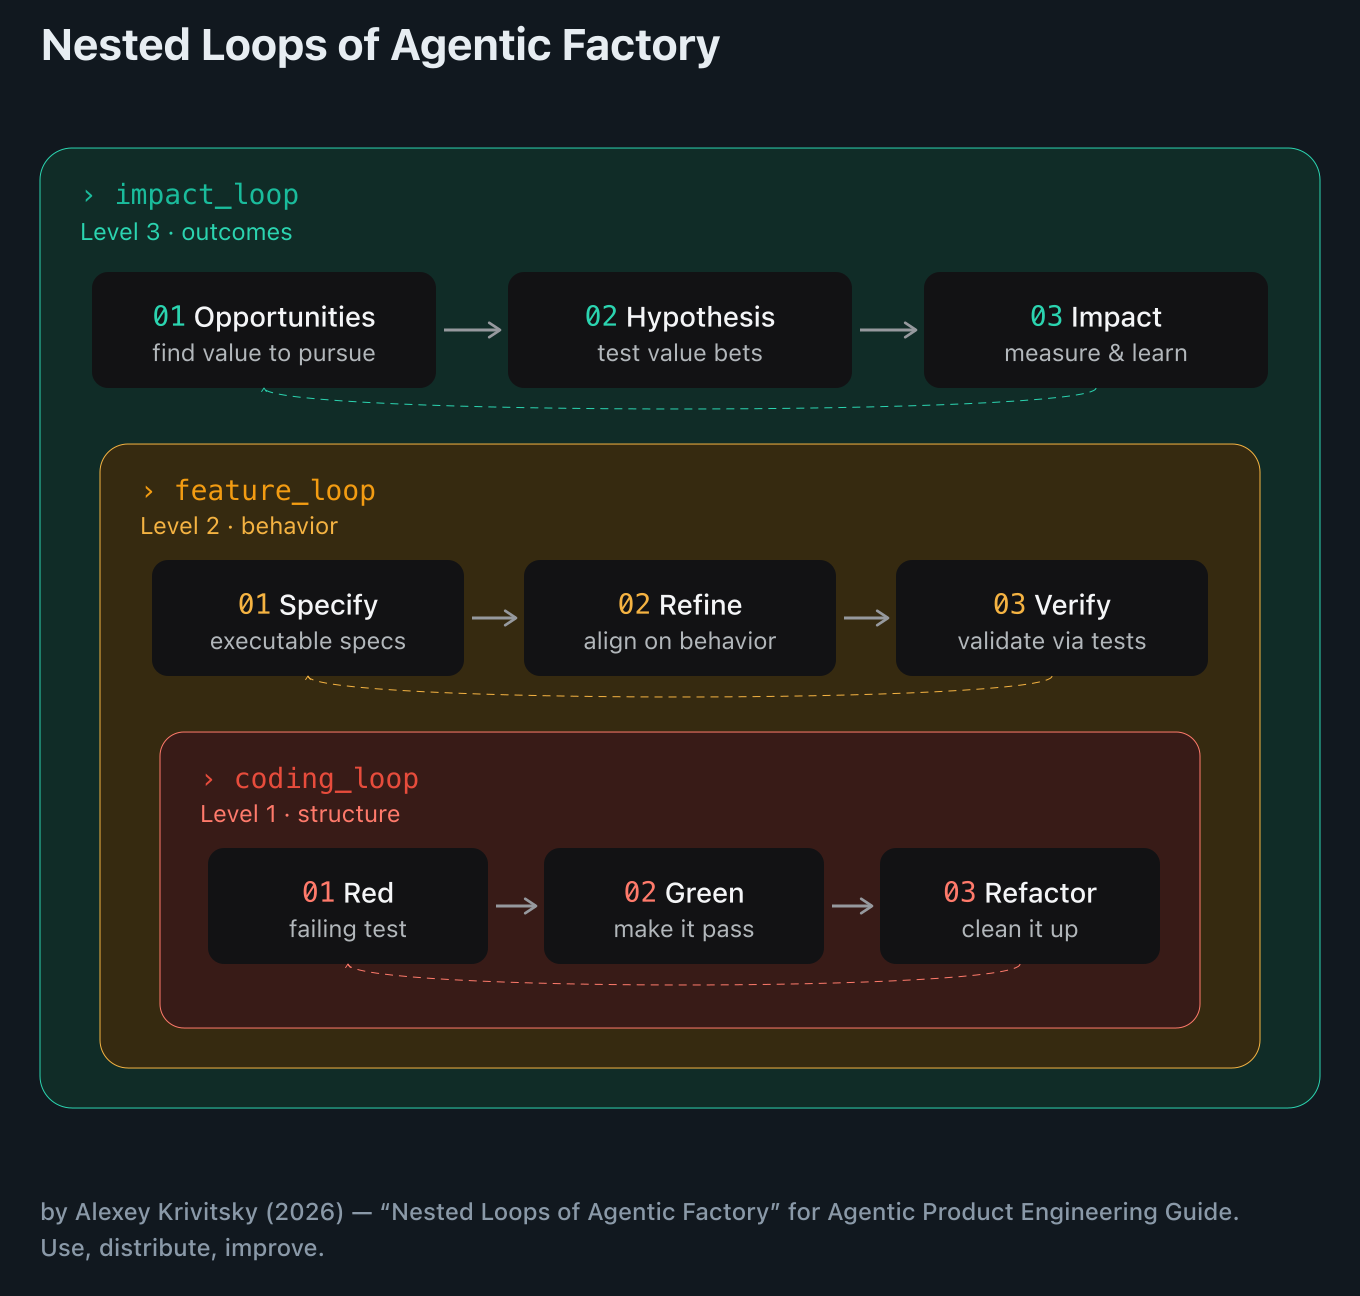
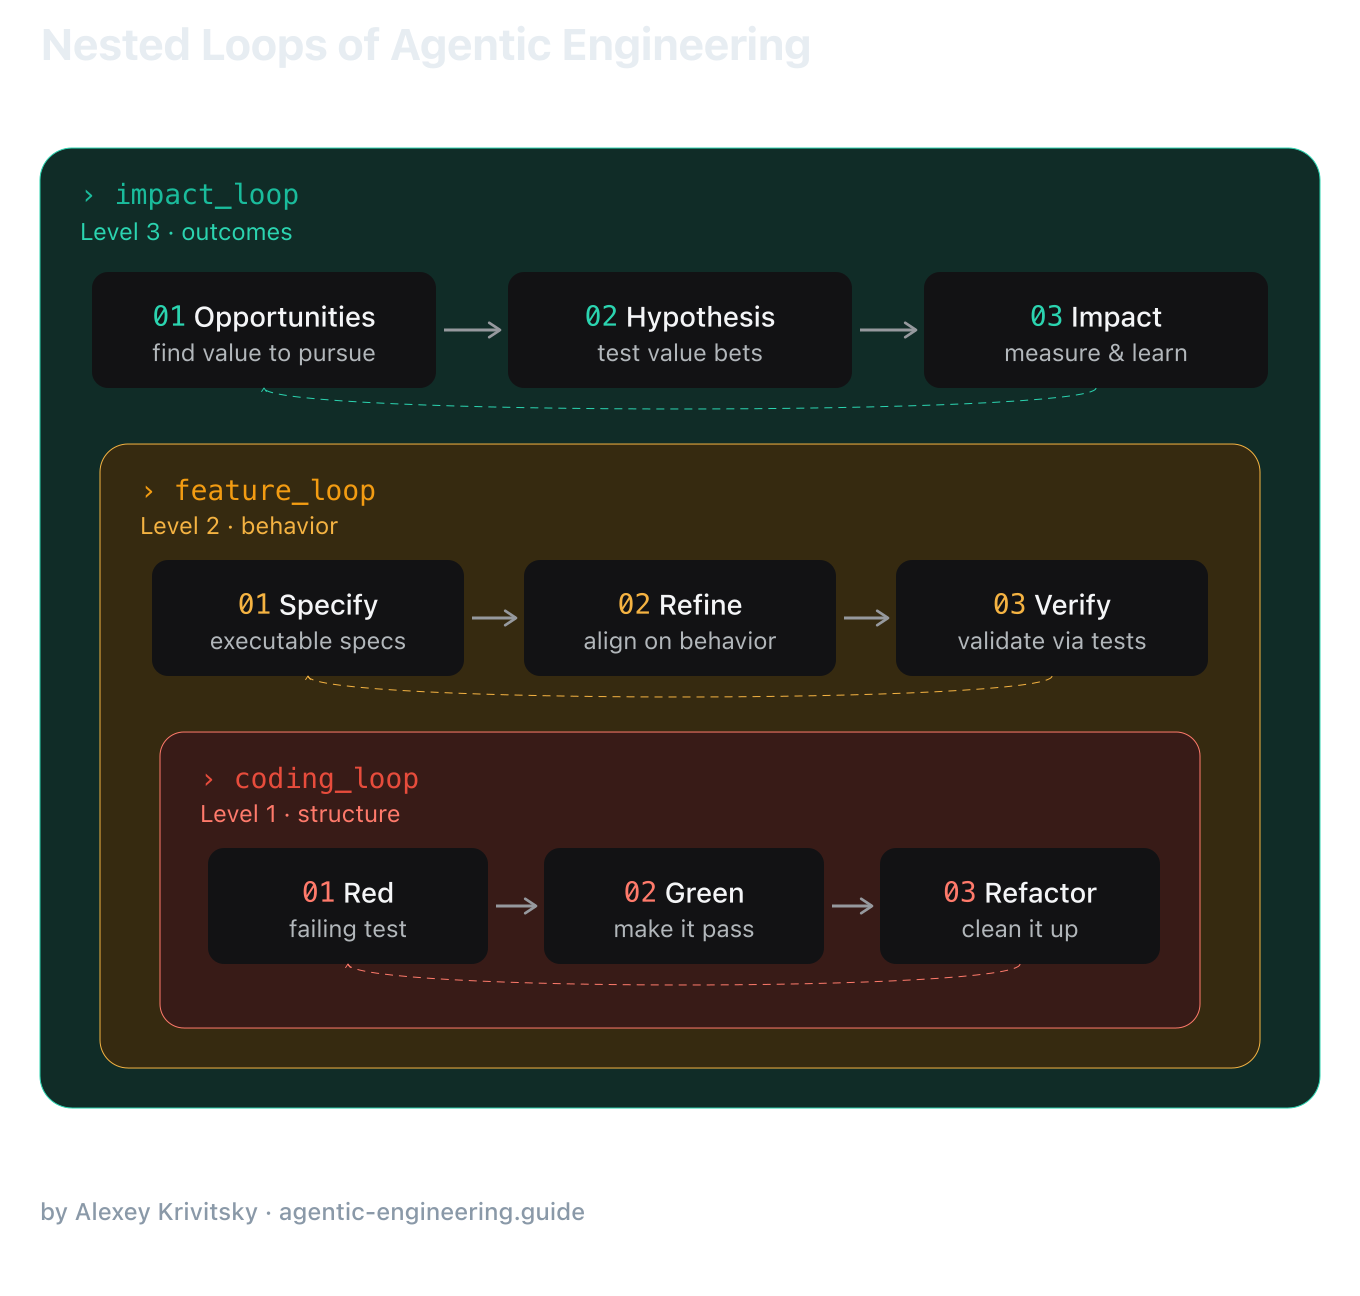
guide: split Big Idea; add "Loops of Agentic Engineering" page
- Big Idea rewritten around the vibe-coding-vs-agentic-system model
  (figure as centerpiece; harness = workflow + guidelines/autotests/guardrails).
- New "Loops of Agentic Engineering" page carries the nested-loops diagram
  and the "each loop is built by specific tiers" text; added to nav + Contents;
  loop-concept deep-links repointed from #big-idea to the new page.
- nested-loops.svg: rename title to "Nested Loops of Agentic Engineering",
  drop the 2026/verbose credit for a one-line "by Alexey Krivitsky ·
  agentic-engineering.guide" footer; regenerate nested-loops.png.
- Credit Denis Turkov (link to his post) in the figure caption too, alongside
  the widget credit and Sources.

Bumps agentic-coach 0.12.0 -> 0.13.0 and re-syncs the bundled guide.

Claude-Session: https://claude.ai/code/session_01E3y69A99S5gXnvzgJFQ3cG

Changed region(s): [[0.0, 0.0, 1.0, 1.0]]

diff --git a/guide.md b/guide.md
@@ -25,15 +25,16 @@ Calibrated for the current frontier class — **Opus 4.8+, GPT-5.5-class+, Gemin
 ### Contents
 1. [Learn this with an agent (the fastest way through)](#learn-this-with-an-agent-the-fastest-way-through)
 2. [Big Idea 💡: From Prompts to Systems](#big-idea--from-prompts-to-systems)
-3. [The eight tiers at a glance](#the-eight-tiers-at-a-glance)
-4. [Climb the eight tiers — to spend effort only where your work needs it](#climb-the-eight-tiers--to-spend-effort-only-where-your-work-needs-it)
+3. [Loops of Agentic Engineering](#loops-of-agentic-engineering)
+4. [The eight tiers at a glance](#the-eight-tiers-at-a-glance)
+5. [Climb the eight tiers — to spend effort only where your work needs it](#climb-the-eight-tiers--to-spend-effort-only-where-your-work-needs-it)
    - [Which tier do I need?](#which-tier-do-i-need)
-5. [Who this is for](#who-this-is-for)
-6. [TL;DR — if you do only five things](#tldr--if-you-do-only-five-things)
-7. [Unlearn the old playbook — so stale advice stops sabotaging you](#unlearn-the-old-playbook--so-stale-advice-stops-sabotaging-you)
-8. [Pick the right tool — so you don't build production on a prototype engine (agent vs one-shot builder)](#pick-the-right-tool--so-you-dont-build-production-on-a-prototype-engine-agent-vs-one-shot-builder)
-9. [Learn the primitives — so the rest of the guide clicks (your building blocks)](#learn-the-primitives--so-the-rest-of-the-guide-clicks-your-building-blocks)
-10. [Tier 1 — Professional Prompting: Write prompts the agent can act on](#tier-1)
+6. [Who this is for](#who-this-is-for)
+7. [TL;DR — if you do only five things](#tldr--if-you-do-only-five-things)
+8. [Unlearn the old playbook — so stale advice stops sabotaging you](#unlearn-the-old-playbook--so-stale-advice-stops-sabotaging-you)
+9. [Pick the right tool — so you don't build production on a prototype engine (agent vs one-shot builder)](#pick-the-right-tool--so-you-dont-build-production-on-a-prototype-engine-agent-vs-one-shot-builder)
+10. [Learn the primitives — so the rest of the guide clicks (your building blocks)](#learn-the-primitives--so-the-rest-of-the-guide-clicks-your-building-blocks)
+11. [Tier 1 — Professional Prompting: Write prompts the agent can act on](#tier-1)
     - [1.1 Hand over the outcome, not a file list](#tip-1-1)
     - [1.2 Be specific](#tip-1-2)
     - [1.3 Say what to do, not what to avoid](#tip-1-3)
@@ -48,7 +49,7 @@ Calibrated for the current frontier class — **Opus 4.8+, GPT-5.5-class+, Gemin
     - [1.12 Narrow the edit surface](#tip-1-12)
     - [1.13 Dial effort](#tip-1-13)
     - [1.14 Say it all in your first message](#tip-1-14)
-11. [Tier 2 — Shaping & Slicing: Plan and slice before you build](#tier-2)
+12. [Tier 2 — Shaping & Slicing: Plan and slice before you build](#tier-2)
     - [2.1 Investigate before you edit](#tip-2-1)
     - [2.2 Plan the uncertain](#tip-2-2)
     - [2.3 Force an approval checkpoint](#tip-2-3)
@@ -57,7 +58,7 @@ Calibrated for the current frontier class — **Opus 4.8+, GPT-5.5-class+, Gemin
     - [2.6 Turn features into a spec](#tip-2-6)
     - [2.7 Plan smart, build cheap](#tip-2-7)
     - [2.8 Draft-and-critique the spec](#tip-2-8)
-12. [Tier 3 — Context Management: Give the agent the right context and tools](#tier-3)
+13. [Tier 3 — Context Management: Give the agent the right context and tools](#tier-3)
     - [3.1 Feed high-signal context](#tip-3-1)
     - [3.2 Keep secrets out of git and context](#tip-3-2)
     - [3.3 `/clear` between tasks](#tip-3-3)
@@ -66,7 +67,7 @@ Calibrated for the current frontier class — **Opus 4.8+, GPT-5.5-class+, Gemin
     - [3.6 Put occasional knowledge in Skills](#tip-3-6)
     - [3.7 Add the right MCP servers](#tip-3-7)
     - [3.8 Use external memory](#tip-3-8)
-13. [Tier 4 — Loop Until Done: Make the agent prove it's done](#tier-4)
+14. [Tier 4 — Loop Until Done: Make the agent prove it's done](#tier-4)
     - [4.1 Make Definition of Done executable](#tip-4-1)
     - [4.2 Do TDD](#tip-4-2)
     - [4.3 Use BDD](#tip-4-3)
@@ -76,13 +77,13 @@ Calibrated for the current frontier class — **Opus 4.8+, GPT-5.5-class+, Gemin
     - [4.7 Review with fresh eyes](#tip-4-7)
     - [4.8 Run a pre-mortem](#tip-4-8)
     - [4.9 Iterate UI visually](#tip-4-9)
-14. [Tier 5 — Checkpointing & Hardening: Checkpoint in git and harden the harness](#tier-5)
+15. [Tier 5 — Checkpointing & Hardening: Checkpoint in git and harden the harness](#tier-5)
     - [5.1 Commit every working step](#tip-5-1)
     - [5.2 Let Claude drive `gh`](#tip-5-2)
     - [5.3 Use worktrees for disposable checkpoints](#tip-5-3)
     - [5.4 Replace "remember to run tests" with a hook](#tip-5-4)
     - [5.5 Move repetitive engineering into CI](#tip-5-5)
-15. [Tier 6 — Orchestration: Run many agents at once](#tier-6)
+16. [Tier 6 — Orchestration: Run many agents at once](#tier-6)
     - [The model toolkit — bring in more models (any tier)](#the-model-toolkit--bring-in-more-models-the-multi-model-playbook)
       - [Assign a model per subagent](#toolkit-model-per-subagent)
       - [Keep a stronger model on call — the advisor](#toolkit-advisor)
@@ -95,19 +96,19 @@ Calibrated for the current frontier class — **Opus 4.8+, GPT-5.5-class+, Gemin
     - [6.5 Engineer the long-horizon hand-off](#tip-6-5)
     - [6.6 Steer long runs mid-flight](#tip-6-6)
     - [6.7 Engineer the environment](#tip-6-7)
-16. [Tier 7 — Fleet Ops: Operate your agents as a fleet](#tier-7)
+17. [Tier 7 — Fleet Ops: Operate your agents as a fleet](#tier-7)
     - [7.1 Use an agent-aware terminal](#tip-7-1)
     - [7.2 Isolate with worktrees + one session each](#tip-7-2)
     - [7.3 Host on a box that doesn't sleep](#tip-7-3)
     - [7.4 Drive the fleet from your phone](#tip-7-4)
     - [7.5 Secure the agent server](#tip-7-5)
-17. [Tier 8 — Agent Execution Layer: Put agents into production](#tier-8)
+18. [Tier 8 — Agent Execution Layer: Put agents into production](#tier-8)
     - [8.1 Sandbox the loop](#tip-8-1)
     - [8.2 Gate the plan, not every keystroke](#tip-8-2)
     - [8.3 Cap the strikes](#tip-8-3)
     - [8.4 Make the tracker the state machine](#tip-8-4)
-18. [Port these habits to any model (Opus / GPT / Gemini)](#port-these-habits-to-any-model-so-this-outlasts-todays-models-opus--gpt--gemini)
-19. [Sources](#sources)
+19. [Port these habits to any model (Opus / GPT / Gemini)](#port-these-habits-to-any-model-so-this-outlasts-todays-models-opus--gpt--gemini)
+20. [Sources](#sources)
 
 ---
 
@@ -152,13 +153,21 @@ Professional agentic engineering is **not prompt engineering. It's engineering t
 
 ![Vibe coding vs an agentic system: on the left a model poked with prompt after prompt, drifting inside a formless shape; on the right a model bouncing cleanly inside a harness of workflows, guidelines, autotests, and guardrails](assets/vibing-vs-agentic-engineering.png)
 
-*▶ [Watch it animate](assets/vibing-vs-agentic-engineering.gif) · [open the interactive version](https://agentic-engineering.guide/big-idea)*
+*Adapted from [Denis Turkov's illustration](https://www.linkedin.com/posts/turkovdenis_most-engineers-starting-with-coding-agents-activity-7450420428650676224-Ldwj). ▶ [Watch it animate](assets/vibing-vs-agentic-engineering.gif) · [open the interactive version](https://agentic-engineering.guide/big-idea)*
 
-That system isn't a line — it's **three nested loops** ([the value-factory model](https://www.krivitsky.com/post/value-factory-nested-loops)). A tight **coding loop** (red → green → refactor) sits inside a **feature loop** (specify → refine → verify), inside an **impact loop** (opportunities → hypothesis → impact). Each wider loop is slower, higher-stakes, and longer to close:
+Prompting alone is **vibe coding**: you poke the model and hope it converges. It can — but only under constant hand-steering, and left to prompts alone the product sprawls, features drift, and quality slides into slop, while your own attention drains into operating the model.
+
+An **agentic system** puts the same model inside a *harness*: a **workflow** — the loop it runs — bounded by three constraints. **Guidelines** shape how it should behave, **autotests** give it ground truth from the environment, and **guardrails** are the limits it can't cross. Inside those bounds the model converges on its own, and your attention is freed for what actually matters: growing understanding and driving impact.
+
+That's the whole shift. As the work gets harder, your effort moves from *wording one prompt* to *engineering that harness* — the prompt shrinks while the system around it grows. [The eight tiers](#the-eight-tiers-at-a-glance) are that climb: from a single request (T1) to whole loops running autonomously in production (T8). Learn the ladder and the 60 tips fall into place.
+
+The harness has a shape — **three nested loops**, from the tight red-green cycle out to real-world impact: **[Loops of Agentic Engineering](#loops-of-agentic-engineering)**.
+
+## Loops of Agentic Engineering
+
+The system you build around the model isn't a line — it's **three nested loops** ([the value-factory model](https://www.krivitsky.com/post/value-factory-nested-loops)). A tight **coding loop** (red → green → refactor) sits inside a **feature loop** (specify → refine → verify), inside an **impact loop** (opportunities → hypothesis → impact). Each wider loop is slower, higher-stakes, and longer to close:
 
 ![Three nested loops: an impact loop (find value, test hypotheses, measure & learn) containing a feature loop (specify, refine, verify) containing a coding loop (red, green, refactor)](assets/nested-loops.svg)
-
-As the work gets harder, your effort moves from *wording one prompt* to *engineering these loops so they close on their own* — the prompt shrinks while the system around it grows. [The eight tiers](#the-eight-tiers-at-a-glance) are that climb: from a single request (T1) to whole loops running autonomously in production (T8). Learn the ladder and the 60 tips fall into place.
 
 **Each loop is built by specific tiers.** Tier 4's tests close the innermost **coding loop** (red → green → refactor), and Tier 5 hardens that check so it runs every time. The **feature loop** around it (specify → refine → verify) runs from the spec you shape in Tier 2 to that same Tier 4 check — which is why Tier 4 belongs to both. Tiers 6–8 scale out to the outer **impact loop** (opportunities → hypothesis → impact), once one agent or one machine isn't enough. Tiers 1 and 3 — prompting and context — are the groundwork under all three. Eight tiers, three loops: climbing the ladder is how you build the loops up.
 
@@ -594,7 +603,7 @@ You don't get great output from one prompt — you get it from a **loop**: the a
 
 A loop only works if it has a target it can test itself against — something that reports *done / not done* without you checking every cycle.
 
-That target is **tests**. **Red → green is the ideal loop condition** — this is the [**coding loop**, the innermost of the three](#big-idea--from-prompts-to-systems): unambiguous, automatable, and the agent can run it itself.
+That target is **tests**. **Red → green is the ideal loop condition** — this is the [**coding loop**, the innermost of the three](#loops-of-agentic-engineering): unambiguous, automatable, and the agent can run it itself.
 
 ```mermaid
 flowchart TD
@@ -654,7 +663,7 @@ The whole skill is writing a DoD precise enough that the agent knows, without yo
 
 *Pin it to one scenario at a time on purpose: left alone, the agent codes every scenario in a single sprawling pass, blowing up work-in-progress into one diff you can't review. One at a time keeps WIP small and makes every green a checkpoint — the [vertical-slice](#tip-2-5) discipline, at the scenario level.*
 
-*Mental model: **TDD** = test first (developer level) · **BDD** = behavior first in business language (acceptance level) · **SDD** = whole spec first, agent generates code + tests + docs. They nest — Gherkin sits between a user story and unit tests. That nesting **is** the [three loops](#big-idea--from-prompts-to-systems): the spec sets the behavior to verify (**feature loop**), the tests turn red to green underneath (**coding loop**). All three give the loop a target it can test itself against.*
+*Mental model: **TDD** = test first (developer level) · **BDD** = behavior first in business language (acceptance level) · **SDD** = whole spec first, agent generates code + tests + docs. They nest — Gherkin sits between a user story and unit tests. That nesting **is** the [three loops](#loops-of-agentic-engineering): the spec sets the behavior to verify (**feature loop**), the tests turn red to green underneath (**coding loop**). All three give the loop a target it can test itself against.*
 
 <a id="tip-4-4"></a>
 **4.4 Test the UI for real with Playwright MCP — don't eyeball it.**
@@ -1179,7 +1188,7 @@ So treat the execution layer like any production system: scope tools per agent (
 
 Start with one managed loop (PR review), prove it, then expand. This is the top of the arc: the agent stops being a chatbot and becomes an **asynchronous worker operating inside your org's existing system of record.**
 
-**That's the point of the whole climb.** When the inner two loops run themselves — the agent closes the [**coding loop**](#big-idea--from-prompts-to-systems) (red → green) and you shape the **feature loop** around it (specify → verify) — your attention is freed for the loop no agent can close for you: the **impact loop**. What's worth building (**opportunities**), which bet to make (**hypothesis**), and whether shipping it actually helped (**impact**). The tiers automate the *how*; they hand you back time for the *what* and the *why*.
+**That's the point of the whole climb.** When the inner two loops run themselves — the agent closes the [**coding loop**](#loops-of-agentic-engineering) (red → green) and you shape the **feature loop** around it (specify → verify) — your attention is freed for the loop no agent can close for you: the **impact loop**. What's worth building (**opportunities**), which bet to make (**hypothesis**), and whether shipping it actually helped (**impact**). The tiers automate the *how*; they hand you back time for the *what* and the *why*.
 
 ---
 

diff --git a/plugins/agentic-coach/guide.md b/plugins/agentic-coach/guide.md
@@ -25,15 +25,16 @@ Calibrated for the current frontier class — **Opus 4.8+, GPT-5.5-class+, Gemin
 ### Contents
 1. [Learn this with an agent (the fastest way through)](#learn-this-with-an-agent-the-fastest-way-through)
 2. [Big Idea 💡: From Prompts to Systems](#big-idea--from-prompts-to-systems)
-3. [The eight tiers at a glance](#the-eight-tiers-at-a-glance)
-4. [Climb the eight tiers — to spend effort only where your work needs it](#climb-the-eight-tiers--to-spend-effort-only-where-your-work-needs-it)
+3. [Loops of Agentic Engineering](#loops-of-agentic-engineering)
+4. [The eight tiers at a glance](#the-eight-tiers-at-a-glance)
+5. [Climb the eight tiers — to spend effort only where your work needs it](#climb-the-eight-tiers--to-spend-effort-only-where-your-work-needs-it)
    - [Which tier do I need?](#which-tier-do-i-need)
-5. [Who this is for](#who-this-is-for)
-6. [TL;DR — if you do only five things](#tldr--if-you-do-only-five-things)
-7. [Unlearn the old playbook — so stale advice stops sabotaging you](#unlearn-the-old-playbook--so-stale-advice-stops-sabotaging-you)
-8. [Pick the right tool — so you don't build production on a prototype engine (agent vs one-shot builder)](#pick-the-right-tool--so-you-dont-build-production-on-a-prototype-engine-agent-vs-one-shot-builder)
-9. [Learn the primitives — so the rest of the guide clicks (your building blocks)](#learn-the-primitives--so-the-rest-of-the-guide-clicks-your-building-blocks)
-10. [Tier 1 — Professional Prompting: Write prompts the agent can act on](#tier-1)
+6. [Who this is for](#who-this-is-for)
+7. [TL;DR — if you do only five things](#tldr--if-you-do-only-five-things)
+8. [Unlearn the old playbook — so stale advice stops sabotaging you](#unlearn-the-old-playbook--so-stale-advice-stops-sabotaging-you)
+9. [Pick the right tool — so you don't build production on a prototype engine (agent vs one-shot builder)](#pick-the-right-tool--so-you-dont-build-production-on-a-prototype-engine-agent-vs-one-shot-builder)
+10. [Learn the primitives — so the rest of the guide clicks (your building blocks)](#learn-the-primitives--so-the-rest-of-the-guide-clicks-your-building-blocks)
+11. [Tier 1 — Professional Prompting: Write prompts the agent can act on](#tier-1)
     - [1.1 Hand over the outcome, not a file list](#tip-1-1)
     - [1.2 Be specific](#tip-1-2)
     - [1.3 Say what to do, not what to avoid](#tip-1-3)
@@ -48,7 +49,7 @@ Calibrated for the current frontier class — **Opus 4.8+, GPT-5.5-class+, Gemin
     - [1.12 Narrow the edit surface](#tip-1-12)
     - [1.13 Dial effort](#tip-1-13)
     - [1.14 Say it all in your first message](#tip-1-14)
-11. [Tier 2 — Shaping & Slicing: Plan and slice before you build](#tier-2)
+12. [Tier 2 — Shaping & Slicing: Plan and slice before you build](#tier-2)
     - [2.1 Investigate before you edit](#tip-2-1)
     - [2.2 Plan the uncertain](#tip-2-2)
     - [2.3 Force an approval checkpoint](#tip-2-3)
@@ -57,7 +58,7 @@ Calibrated for the current frontier class — **Opus 4.8+, GPT-5.5-class+, Gemin
     - [2.6 Turn features into a spec](#tip-2-6)
     - [2.7 Plan smart, build cheap](#tip-2-7)
     - [2.8 Draft-and-critique the spec](#tip-2-8)
-12. [Tier 3 — Context Management: Give the agent the right context and tools](#tier-3)
+13. [Tier 3 — Context Management: Give the agent the right context and tools](#tier-3)
     - [3.1 Feed high-signal context](#tip-3-1)
     - [3.2 Keep secrets out of git and context](#tip-3-2)
     - [3.3 `/clear` between tasks](#tip-3-3)
@@ -66,7 +67,7 @@ Calibrated for the current frontier class — **Opus 4.8+, GPT-5.5-class+, Gemin
     - [3.6 Put occasional knowledge in Skills](#tip-3-6)
     - [3.7 Add the right MCP servers](#tip-3-7)
     - [3.8 Use external memory](#tip-3-8)
-13. [Tier 4 — Loop Until Done: Make the agent prove it's done](#tier-4)
+14. [Tier 4 — Loop Until Done: Make the agent prove it's done](#tier-4)
     - [4.1 Make Definition of Done executable](#tip-4-1)
     - [4.2 Do TDD](#tip-4-2)
     - [4.3 Use BDD](#tip-4-3)
@@ -76,13 +77,13 @@ Calibrated for the current frontier class — **Opus 4.8+, GPT-5.5-class+, Gemin
     - [4.7 Review with fresh eyes](#tip-4-7)
     - [4.8 Run a pre-mortem](#tip-4-8)
     - [4.9 Iterate UI visually](#tip-4-9)
-14. [Tier 5 — Checkpointing & Hardening: Checkpoint in git and harden the harness](#tier-5)
+15. [Tier 5 — Checkpointing & Hardening: Checkpoint in git and harden the harness](#tier-5)
     - [5.1 Commit every working step](#tip-5-1)
     - [5.2 Let Claude drive `gh`](#tip-5-2)
     - [5.3 Use worktrees for disposable checkpoints](#tip-5-3)
     - [5.4 Replace "remember to run tests" with a hook](#tip-5-4)
     - [5.5 Move repetitive engineering into CI](#tip-5-5)
-15. [Tier 6 — Orchestration: Run many agents at once](#tier-6)
+16. [Tier 6 — Orchestration: Run many agents at once](#tier-6)
     - [The model toolkit — bring in more models (any tier)](#the-model-toolkit--bring-in-more-models-the-multi-model-playbook)
       - [Assign a model per subagent](#toolkit-model-per-subagent)
       - [Keep a stronger model on call — the advisor](#toolkit-advisor)
@@ -95,19 +96,19 @@ Calibrated for the current frontier class — **Opus 4.8+, GPT-5.5-class+, Gemin
     - [6.5 Engineer the long-horizon hand-off](#tip-6-5)
     - [6.6 Steer long runs mid-flight](#tip-6-6)
     - [6.7 Engineer the environment](#tip-6-7)
-16. [Tier 7 — Fleet Ops: Operate your agents as a fleet](#tier-7)
+17. [Tier 7 — Fleet Ops: Operate your agents as a fleet](#tier-7)
     - [7.1 Use an agent-aware terminal](#tip-7-1)
     - [7.2 Isolate with worktrees + one session each](#tip-7-2)
     - [7.3 Host on a box that doesn't sleep](#tip-7-3)
     - [7.4 Drive the fleet from your phone](#tip-7-4)
     - [7.5 Secure the agent server](#tip-7-5)
-17. [Tier 8 — Agent Execution Layer: Put agents into production](#tier-8)
+18. [Tier 8 — Agent Execution Layer: Put agents into production](#tier-8)
     - [8.1 Sandbox the loop](#tip-8-1)
     - [8.2 Gate the plan, not every keystroke](#tip-8-2)
     - [8.3 Cap the strikes](#tip-8-3)
     - [8.4 Make the tracker the state machine](#tip-8-4)
-18. [Port these habits to any model (Opus / GPT / Gemini)](#port-these-habits-to-any-model-so-this-outlasts-todays-models-opus--gpt--gemini)
-19. [Sources](#sources)
+19. [Port these habits to any model (Opus / GPT / Gemini)](#port-these-habits-to-any-model-so-this-outlasts-todays-models-opus--gpt--gemini)
+20. [Sources](#sources)
 
 ---
 
@@ -152,13 +153,21 @@ Professional agentic engineering is **not prompt engineering. It's engineering t
 
 ![Vibe coding vs an agentic system: on the left a model poked with prompt after prompt, drifting inside a formless shape; on the right a model bouncing cleanly inside a harness of workflows, guidelines, autotests, and guardrails](assets/vibing-vs-agentic-engineering.png)
 
-*▶ [Watch it animate](assets/vibing-vs-agentic-engineering.gif) · [open the interactive version](https://agentic-engineering.guide/big-idea)*
+*Adapted from [Denis Turkov's illustration](https://www.linkedin.com/posts/turkovdenis_most-engineers-starting-with-coding-agents-activity-7450420428650676224-Ldwj). ▶ [Watch it animate](assets/vibing-vs-agentic-engineering.gif) · [open the interactive version](https://agentic-engineering.guide/big-idea)*
 
-That system isn't a line — it's **three nested loops** ([the value-factory model](https://www.krivitsky.com/post/value-factory-nested-loops)). A tight **coding loop** (red → green → refactor) sits inside a **feature loop** (specify → refine → verify), inside an **impact loop** (opportunities → hypothesis → impact). Each wider loop is slower, higher-stakes, and longer to close:
+Prompting alone is **vibe coding**: you poke the model and hope it converges. It can — but only under constant hand-steering, and left to prompts alone the product sprawls, features drift, and quality slides into slop, while your own attention drains into operating the model.
+
+An **agentic system** puts the same model inside a *harness*: a **workflow** — the loop it runs — bounded by three constraints. **Guidelines** shape how it should behave, **autotests** give it ground truth from the environment, and **guardrails** are the limits it can't cross. Inside those bounds the model converges on its own, and your attention is freed for what actually matters: growing understanding and driving impact.
+
+That's the whole shift. As the work gets harder, your effort moves from *wording one prompt* to *engineering that harness* — the prompt shrinks while the system around it grows. [The eight tiers](#the-eight-tiers-at-a-glance) are that climb: from a single request (T1) to whole loops running autonomously in production (T8). Learn the ladder and the 60 tips fall into place.
+
+The harness has a shape — **three nested loops**, from the tight red-green cycle out to real-world impact: **[Loops of Agentic Engineering](#loops-of-agentic-engineering)**.
+
+## Loops of Agentic Engineering
+
+The system you build around the model isn't a line — it's **three nested loops** ([the value-factory model](https://www.krivitsky.com/post/value-factory-nested-loops)). A tight **coding loop** (red → green → refactor) sits inside a **feature loop** (specify → refine → verify), inside an **impact loop** (opportunities → hypothesis → impact). Each wider loop is slower, higher-stakes, and longer to close:
 
 ![Three nested loops: an impact loop (find value, test hypotheses, measure & learn) containing a feature loop (specify, refine, verify) containing a coding loop (red, green, refactor)](assets/nested-loops.svg)
-
-As the work gets harder, your effort moves from *wording one prompt* to *engineering these loops so they close on their own* — the prompt shrinks while the system around it grows. [The eight tiers](#the-eight-tiers-at-a-glance) are that climb: from a single request (T1) to whole loops running autonomously in production (T8). Learn the ladder and the 60 tips fall into place.
 
 **Each loop is built by specific tiers.** Tier 4's tests close the innermost **coding loop** (red → green → refactor), and Tier 5 hardens that check so it runs every time. The **feature loop** around it (specify → refine → verify) runs from the spec you shape in Tier 2 to that same Tier 4 check — which is why Tier 4 belongs to both. Tiers 6–8 scale out to the outer **impact loop** (opportunities → hypothesis → impact), once one agent or one machine isn't enough. Tiers 1 and 3 — prompting and context — are the groundwork under all three. Eight tiers, three loops: climbing the ladder is how you build the loops up.
 
@@ -594,7 +603,7 @@ You don't get great output from one prompt — you get it from a **loop**: the a
 
 A loop only works if it has a target it can test itself against — something that reports *done / not done* without you checking every cycle.
 
-That target is **tests**. **Red → green is the ideal loop condition** — this is the [**coding loop**, the innermost of the three](#big-idea--from-prompts-to-systems): unambiguous, automatable, and the agent can run it itself.
+That target is **tests**. **Red → green is the ideal loop condition** — this is the [**coding loop**, the innermost of the three](#loops-of-agentic-engineering): unambiguous, automatable, and the agent can run it itself.
 
 ```mermaid
 flowchart TD
@@ -654,7 +663,7 @@ The whole skill is writing a DoD precise enough that the agent knows, without yo
 
 *Pin it to one scenario at a time on purpose: left alone, the agent codes every scenario in a single sprawling pass, blowing up work-in-progress into one diff you can't review. One at a time keeps WIP small and makes every green a checkpoint — the [vertical-slice](#tip-2-5) discipline, at the scenario level.*
 
-*Mental model: **TDD** = test first (developer level) · **BDD** = behavior first in business language (acceptance level) · **SDD** = whole spec first, agent generates code + tests + docs. They nest — Gherkin sits between a user story and unit tests. That nesting **is** the [three loops](#big-idea--from-prompts-to-systems): the spec sets the behavior to verify (**feature loop**), the tests turn red to green underneath (**coding loop**). All three give the loop a target it can test itself against.*
+*Mental model: **TDD** = test first (developer level) · **BDD** = behavior first in business language (acceptance level) · **SDD** = whole spec first, agent generates code + tests + docs. They nest — Gherkin sits between a user story and unit tests. That nesting **is** the [three loops](#loops-of-agentic-engineering): the spec sets the behavior to verify (**feature loop**), the tests turn red to green underneath (**coding loop**). All three give the loop a target it can test itself against.*
 
 <a id="tip-4-4"></a>
 **4.4 Test the UI for real with Playwright MCP — don't eyeball it.**
@@ -1179,7 +1188,7 @@ So treat the execution layer like any production system: scope tools per agent (
 
 Start with one managed loop (PR review), prove it, then expand. This is the top of the arc: the agent stops being a chatbot and becomes an **asynchronous worker operating inside your org's existing system of record.**
 
-**That's the point of the whole climb.** When the inner two loops run themselves — the agent closes the [**coding loop**](#big-idea--from-prompts-to-systems) (red → green) and you shape the **feature loop** around it (specify → verify) — your attention is freed for the loop no agent can close for you: the **impact loop**. What's worth building (**opportunities**), which bet to make (**hypothesis**), and whether shipping it actually helped (**impact**). The tiers automate the *how*; they hand you back time for the *what* and the *why*.
+**That's the point of the whole climb.** When the inner two loops run themselves — the agent closes the [**coding loop**](#loops-of-agentic-engineering) (red → green) and you shape the **feature loop** around it (specify → verify) — your attention is freed for the loop no agent can close for you: the **impact loop**. What's worth building (**opportunities**), which bet to make (**hypothesis**), and whether shipping it actually helped (**impact**). The tiers automate the *how*; they hand you back time for the *what* and the *why*.
 
 ---
 